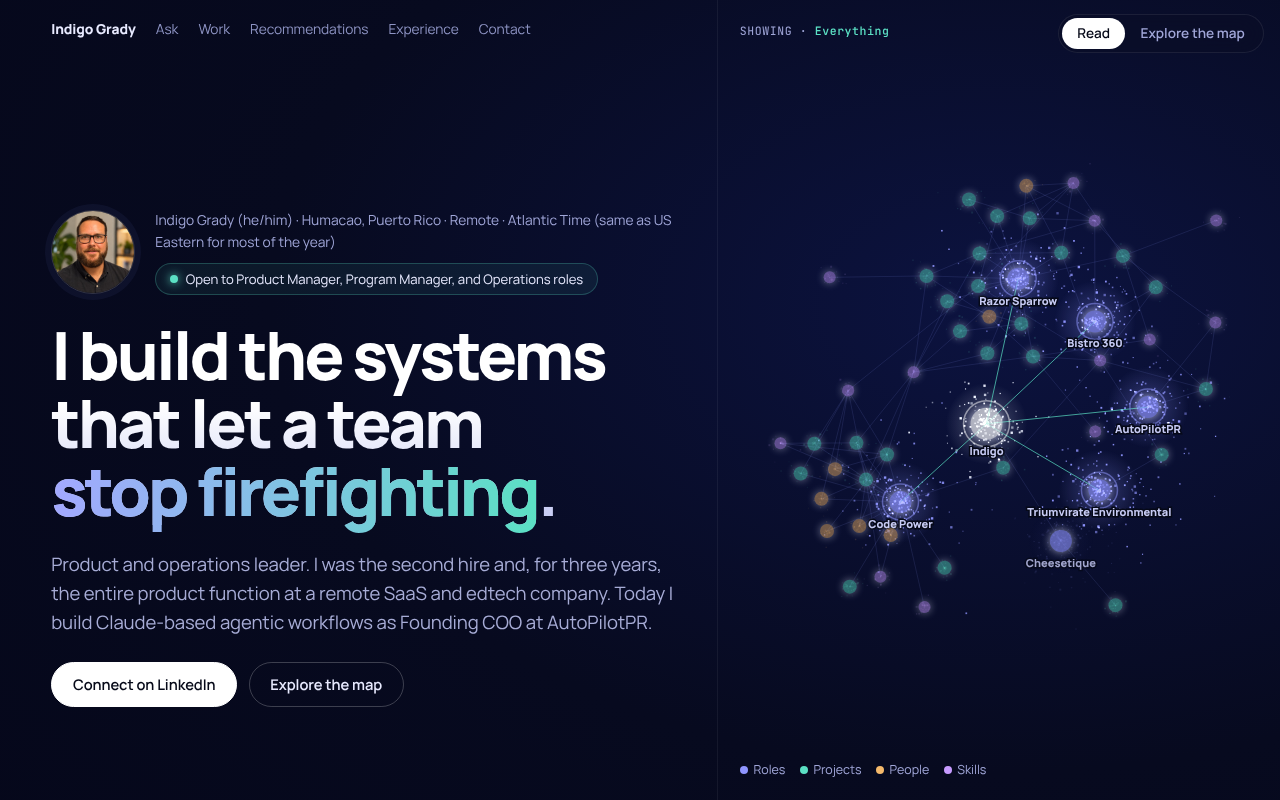
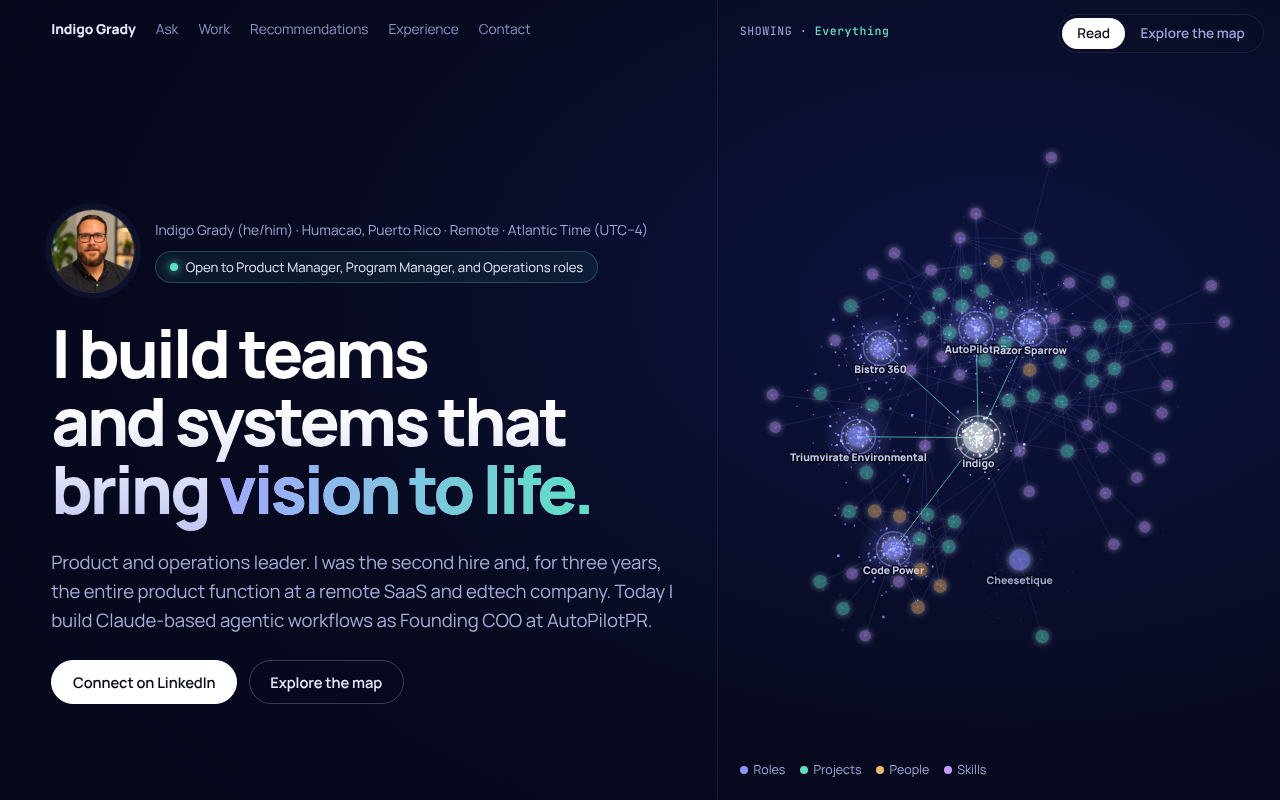
Stop the intro flicker on the larger map (#10)
* Intro: steady particle budget and batched drawing so it stops flickering

The map grew from 54 to 86 dots, which pushed the intro to about 3,750
particles: the swarm got dense enough to shimmer and the landing dropped
frames. Particles now share a fixed budget (2,800 desktop, 1,400 phone)
spread across however many dots the map has, and the dust is drawn in a
few batched paths instead of one fill per particle.

Claude-Session: https://claude.ai/code/session_01WBqHBDDggbTU3Wu4zvXgkc

* Intro: no half-drawn frames between steps, so the transition stops flashing

The step changes (glide to groups, groups to map) switched phase in the
middle of a frame, so one frame was drawn with no dots and flashed dark.
Phases now switch only after a full frame. The swarm keeps turning while
dots leave for their groups, streaks follow each dot's smoothed speed
instead of frame timing, and streak length and brightness ease between
steps. Measured frame to frame, brightness no longer jumps more than about
10% anywhere after the swarm appears.

Claude-Session: https://claude.ai/code/session_01WBqHBDDggbTU3Wu4zvXgkc

---------

diff --git a/src/scripts/particles.js b/src/scripts/particles.js
@@ -25,9 +25,12 @@ function start() {
   var thin = small ? 0.5 : 1;
 
   /* ---------- particles ---------- */
-  var nodes = MAP.nodes, P = [];
+  /* a fixed particle budget keeps density (and frame rate) steady as the map grows */
+  var nodes = MAP.nodes, P = [], BUDGET = small ? 1400 : 2800, raw = 0;
+  nodes.forEach(function (n) { raw += COUNT[n.type] * thin; });
+  var scale = Math.min(1, BUDGET / raw);
   nodes.forEach(function (n, ni) {
-    var c = Math.round(COUNT[n.type] * thin);
+    var c = Math.max(small ? 4 : 8, Math.round(COUNT[n.type] * thin * scale));
     for (var i = 0; i < c; i++) {
       var g = gauss();
       P.push({
@@ -36,7 +39,7 @@ function start() {
         a: Math.random() * Math.PI * 2,
         w: (Math.random() - 0.5) * 0.35 / (1 + Math.abs(g)),
         s: Math.random() < 0.08 ? 1.9 : 0.8 + Math.random() * 0.7,
-        tw: Math.random() * Math.PI * 2,
+        tb: P.length % 4,
         lx: 0, ly: 0, x: 0, y: 0, px: 0, py: 0, fx: 0, fy: 0, d: Math.random()
       });
     }
@@ -120,8 +123,13 @@ function start() {
   var NCOUNT = {}; nodes.forEach(function (n) { NCOUNT[n.type] = (NCOUNT[n.type] || 0) + 1; });
   var PCOUNT = {}; P.forEach(function (p) { PCOUNT[p.type] = (PCOUNT[p.type] || 0) + 1; });
   var FONT = (getComputedStyle(root).getPropertyValue('--f-display') || '').trim() || 'system-ui, sans-serif';
-  function tail(path, p, q, T, M) {
-    var dx = (q.x - p.x) * T, dy = (q.y - p.y) * T, len = Math.sqrt(dx * dx + dy * dy);
+  /* streak length follows each particle's smoothed speed, not the time since the last frame,
+     so an uneven frame can't make every streak jump in length (that read as flicker) */
+  function tail(path, p, q, T, M, dt) {
+    var inv = 1 / Math.max(dt, 1 / 240);
+    p.vx = (p.vx || 0) + ((q.x - p.x) * inv - (p.vx || 0)) * 0.3;
+    p.vy = (p.vy || 0) + ((q.y - p.y) * inv - (p.vy || 0)) * 0.3;
+    var dx = p.vx * T / 60, dy = p.vy * T / 60, len = Math.sqrt(dx * dx + dy * dy);
     if (len < 0.01) return;
     if (len > M) { dx *= M / len; dy *= M / len; }
     path.moveTo(q.x - dx, q.y - dy); path.lineTo(q.x, q.y);
@@ -161,32 +169,33 @@ function start() {
 
     if (phase === 'swarm' || phase === 'glide' || phase === 'group') {
       swarmR = small ? Math.min(W * 0.29, H * 0.36) : Math.min(W, H) * 0.3;
-      var spin = 0, mix = 0, gT = 0, labelA = 0;
+      var spin = 0, mix = 0, gT = 0, labelA = 0, dotA = 0, settle = 0, gl = 0, next = null;
       if (phase === 'swarm') { swarmC.x = W / 2; swarmC.y = H * 0.38; }
       else if (phase === 'glide') {
         /* one smooth glide to center while the swarm spins up and takes on its colors */
         var u = Math.min(1, pt / GLIDE), eu = ease(u);
         swarmC.x = glideFrom.x + (W / 2 - glideFrom.x) * eu; swarmC.y = glideFrom.y + (H * 0.45 - glideFrom.y) * eu;
         swarmR *= 1 + 0.12 * Math.sin(u * Math.PI);
-        spin = Math.sin(u * Math.PI) * 1.6; mix = eu;
-        if (u >= 1) { phase = 'group'; phaseStart = now; startGroup(); }
+        spin = Math.sin(u * Math.PI) * 1.6; mix = eu; gl = eu; dotA = 0.9 * eu * eu;
+        if (u >= 1) next = 'group';
       } else {
         /* sort by type: each color gathers into its own labeled cluster */
-        mix = 1; gT = Math.min(1, pt / GROUP_MOVE);
+        mix = 1; gT = Math.min(1, pt / GROUP_MOVE); dotA = 0.9; settle = clamp(pt / 0.6, 0, 1);
         labelA = clamp((pt - GROUP_MOVE * 0.55) / 0.5, 0, 1);
-        if (pt >= GROUP_MOVE + GROUP_HOLD) { phase = 'form'; phaseStart = now; startForm(); }
+        if (pt >= GROUP_MOVE + GROUP_HOLD) next = 'form';
       }
       ctx.globalCompositeOperation = 'source-over';
       ctx.clearRect(0, 0, W, H);
       ctx.globalCompositeOperation = 'lighter';
       ctx.lineWidth = 1;
-      var TAIL = phase === 'swarm' ? 7 : phase === 'glide' ? 5 : 2, MAXT = phase === 'swarm' ? 34 : phase === 'glide' ? 40 : 18;
+      /* tails ease shorter as the groups settle, so nothing pops between steps */
+      var TAIL = phase === 'swarm' ? 7 : phase === 'glide' ? 7 - 2 * gl : 5 - 3 * settle, MAXT = phase === 'swarm' ? 34 : phase === 'glide' ? 34 + 6 * gl : 40 - 22 * settle;
       if (phase === 'swarm') {
         var paths = [new Path2D(), new Path2D(), new Path2D()];
         P.forEach(function (p, i) {
           flow(p, dt, time, 0);
           var q = swarmXY(p, 0, null);
-          if (p.x || p.y) tail(paths[i % 3], p, q, TAIL, MAXT);
+          if (p.x || p.y) tail(paths[i % 3], p, q, TAIL, MAXT, dt);
           p.x = q.x; p.y = q.y;
         });
         ctx.strokeStyle = 'rgba(235,242,255,0.55)'; ctx.stroke(paths[0]);
@@ -199,22 +208,27 @@ function start() {
           var q;
           if (phase === 'glide') { flow(p, dt, time, spin); q = swarmXY(p, 0, null); }
           else {
-            var g = groups[p.type], e = ease(clamp((gT - p.d * 0.2) / 0.8, 0, 1));
+            /* keep the swarm turning underneath, so each dot leaves it moving instead of from a standstill */
+            var g = groups[p.type], e = ease(clamp((gT - p.d * 0.2) / 0.8, 0, 1)), b0;
+            if (e < 1) { flow(p, dt, time, 0); b0 = swarmXY(p, 0, null); } else b0 = p;
             var a = p.ga + time * 0.18, tx = g.x + Math.cos(a) * p.gr * g.r, ty = g.y + Math.sin(a) * p.gr * g.r;
-            q = { x: p.sx + (tx - p.sx) * e, y: p.sy + (ty - p.sy) * e };
+            q = { x: b0.x + (tx - b0.x) * e, y: b0.y + (ty - b0.y) * e };
           }
-          tail(tp[p.type], p, q, TAIL, MAXT);
-          if (phase === 'group') dots[p.type].rect(q.x - p.s / 2, q.y - p.s / 2, p.s, p.s);
+          tail(tp[p.type], p, q, TAIL, MAXT, dt);
+          if (dotA > 0) dots[p.type].rect(q.x - p.s / 2, q.y - p.s / 2, p.s, p.s);
           p.x = q.x; p.y = q.y;
         });
         TYPES.forEach(function (t) {
           var c = COLORS[t], w = [235, 242, 255], m = t === 'me' ? 0 : mix;
           var col = Math.round(w[0] + (c[0] - w[0]) * m) + ',' + Math.round(w[1] + (c[1] - w[1]) * m) + ',' + Math.round(w[2] + (c[2] - w[2]) * m);
-          ctx.strokeStyle = 'rgba(' + col + ',' + (phase === 'group' ? 0.35 : 0.55) + ')'; ctx.stroke(tp[t]);
-          ctx.fillStyle = 'rgba(' + col + ',0.9)'; ctx.fill(dots[t]);
+          ctx.strokeStyle = 'rgba(' + col + ',' + (phase === 'glide' ? 0.48 + 0.07 * gl : 0.55 - 0.2 * settle) + ')'; ctx.stroke(tp[t]);
+          if (dotA > 0) { ctx.fillStyle = 'rgba(' + col + ',' + dotA.toFixed(3) + ')'; ctx.fill(dots[t]); }
         });
         if (labelA > 0) drawLabels(labelA);
       }
+      /* switch phases only after a full frame is drawn, so no frame is ever half-drawn */
+      if (next === 'group') { phase = 'group'; phaseStart = now; startGroup(); }
+      else if (next === 'form') { phase = 'form'; phaseStart = now; startForm(); }
     } else {
       project();
       var lit = MAP.lit(), glow = {}, any = false;
@@ -236,22 +250,28 @@ function start() {
       });
 
       
+      /* batch dots into a few paths (type x lit x twinkle x landing) instead of one fill per particle */
+      var batch = {};
       for (var j = 0; j < P.length; j++) {
         var p = P[j], tg = dustTarget(p, time); if (!tg) continue;
         var h2 = nodeXY[p.n]; if (!h2.vis) continue;
-        var x = tg.x, y = tg.y, e = 1;
+        var x = tg.x, y = tg.y, eb = 4;
         if (phase === 'form') {
           /* each particle flies from its group to its dot on the map */
-          e = ease(clamp((formT - p.d * 0.35) / 0.65, 0, 1));
-          x = p.fx + (x - p.fx) * e; y = p.fy + (y - p.fy) * e;
+          var e = ease(clamp((formT - p.d * 0.35) / 0.65, 0, 1));
+          x = p.fx + (x - p.fx) * e; y = p.fy + (y - p.fy) * e; eb = Math.round(e * 4);
         }
-        var on2 = glow[nodes[p.n].id], tw = 0.75 + 0.25 * Math.sin(time * 1.7 + p.tw);
-        var al2 = (on2 ? 0.95 : any ? 0.16 : 0.5) * tw;
-        if (phase === 'form') al2 = 0.9 + (al2 - 0.9) * e;
-        var c2 = COLORS[p.type];
-        ctx.fillStyle = 'rgba(' + c2[0] + ',' + c2[1] + ',' + c2[2] + ',' + al2 + ')';
+        var on2 = glow[nodes[p.n].id] ? 1 : 0, key = p.type + on2 + p.tb + eb;
+        var b = batch[key] || (batch[key] = { t: p.type, on: on2, tb: p.tb, eb: eb, path: new Path2D() });
         var s = p.s * (on2 ? 1.25 : 1);
-        ctx.fillRect(x - s / 2, y - s / 2, s, s);
+        b.path.rect(x - s / 2, y - s / 2, s, s);
+      }
+      for (var k in batch) {
+        var bb = batch[k], c2 = COLORS[bb.t], tw = 0.75 + 0.25 * Math.sin(time * 1.7 + bb.tb * 1.5708);
+        var al2 = (bb.on ? 0.95 : any ? 0.16 : 0.5) * tw;
+        if (phase === 'form') al2 = 0.9 + (al2 - 0.9) * (bb.eb / 4);
+        ctx.fillStyle = 'rgba(' + c2[0] + ',' + c2[1] + ',' + c2[2] + ',' + al2.toFixed(3) + ')';
+        ctx.fill(bb.path);
       }
       if (phase === 'form' && groups) { var la = clamp(1 - formT * 3, 0, 1); if (la > 0) drawLabels(la); }
       if (phase === 'form' && formT >= 1) { phase = 'live'; setTimeout(skip, 700); }
